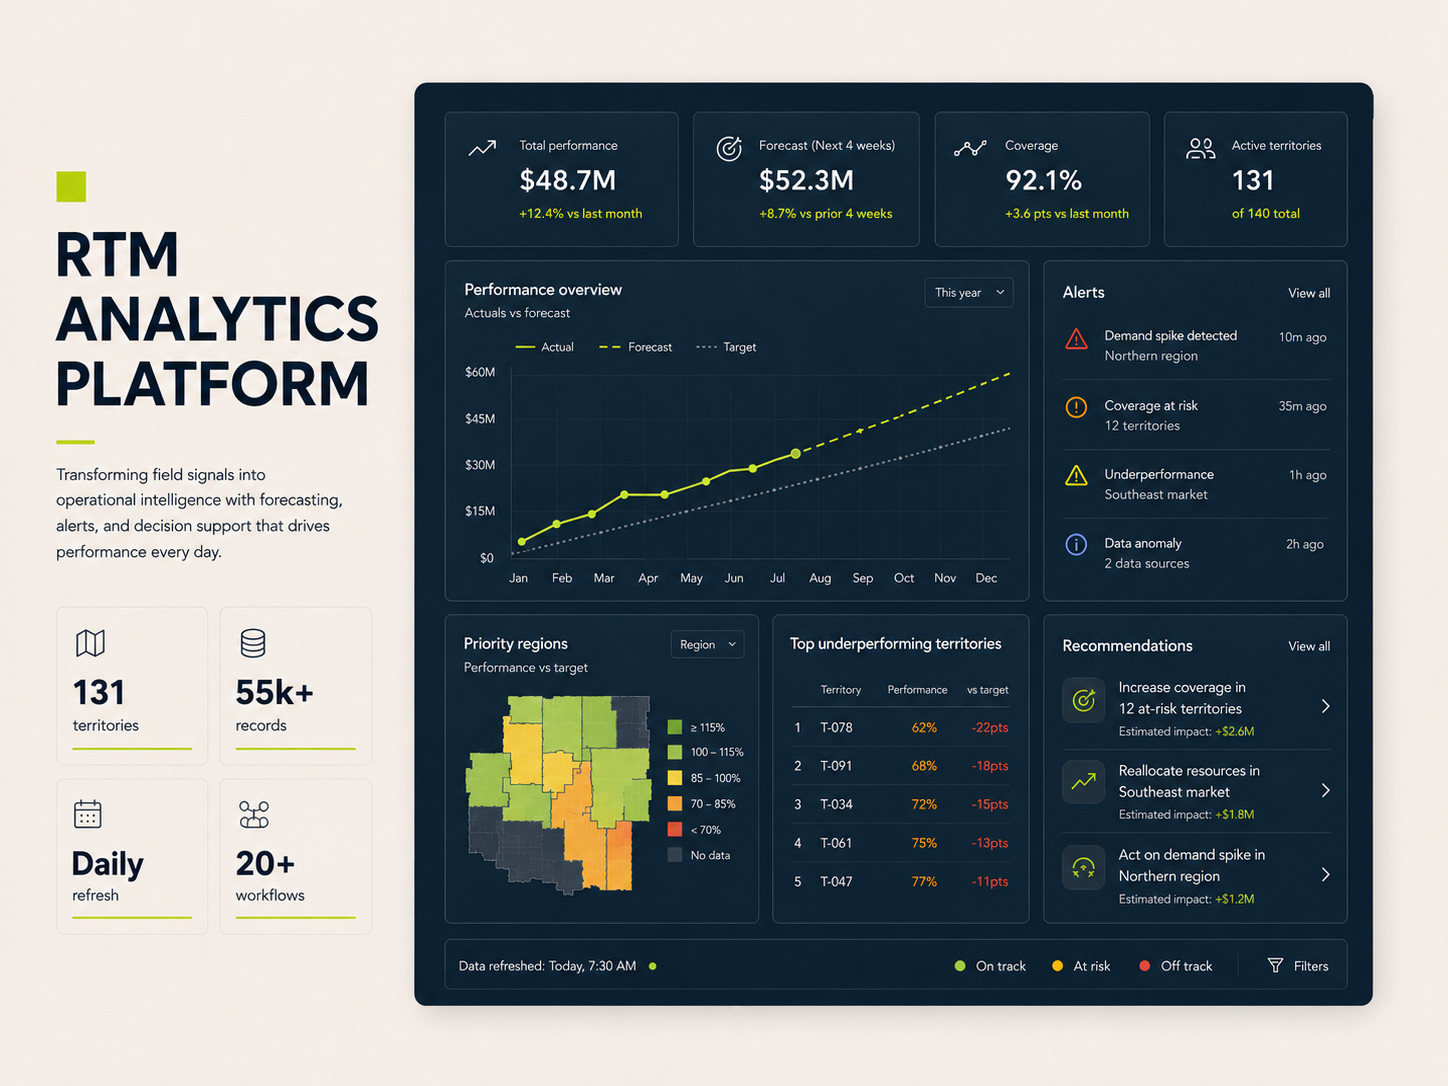
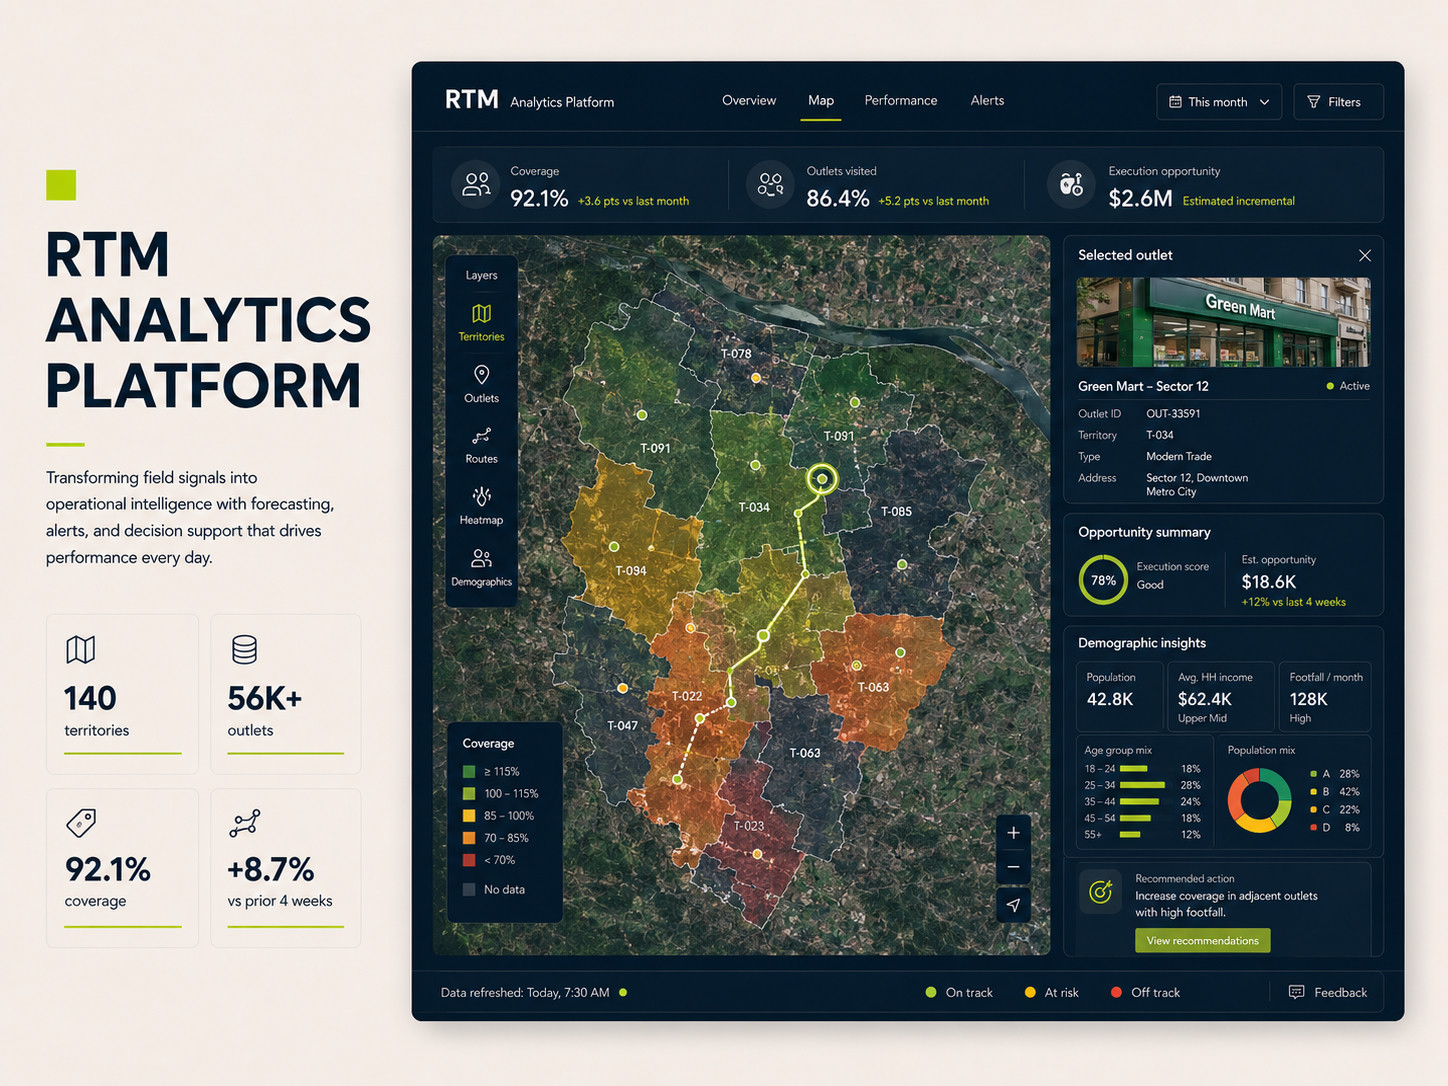
feat: update the RTM and EBM covers
RTM moves to the map view; EBM gets a cover in the site's own language
instead of the old raw screenshot.

Both are 4:3, so EBM no longer needs the 3/2 override -- it takes the
default now. The mediaAspect field stays for whatever comes next.

diff --git a/data/projects.ts b/data/projects.ts
@@ -113,8 +113,7 @@ export const projects: Project[] = [
     title: 'Retail Sales Intelligence Platform',
     description:
       'Developed a sales intelligence platform that combined forecasting, spatial analysis, and computer vision signals to support regional planning. It helped business teams identify market opportunities, monitor changing demand patterns, and make better territory-level decisions.',
-    image: '/images/projects/ebm-dashboard.png',
-    mediaAspect: '3 / 2',
+    image: '/images/projects/ebm-dashboard.jpg',
     tags: [
       'Computer Vision',
       'Deep Learning',
